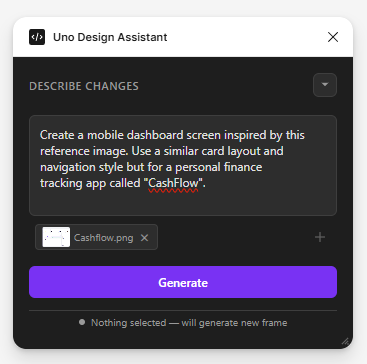
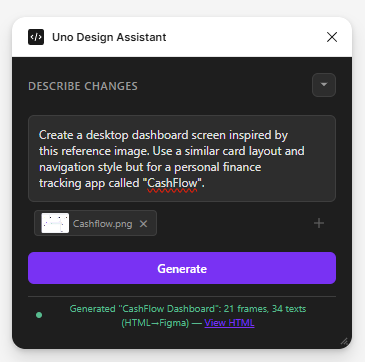
Round 3: Improve reference image visual fidelity, proportions, and density
- Fix DESKTOP LAYOUT: sidebar now 200-250px for dashboard pages (was 720px)
- Add VISUAL COMPONENT PATTERNS section with concrete recipes for stat cards, charts, transaction lists, progress bars, sidebar nav, buttons
- Enhance REFERENCE IMAGE HANDLING with proportion matching, visual richness, and density floor (80-150+ nodes)
- Update callLLMGenerate STEP 3 with detailed visual replication guidance
- Update callLLMGenerateHTML with 3 new analysis points (proportions, richness, density)
- Update callLLMPlan with sidebar width constraints and visual richness notes
- Comparison site: fix sticky column hover highlight, update test prompt to desktop

diff --git a/backend/llm.ts b/backend/llm.ts
@@ -555,6 +555,7 @@ export async function callLLMGenerate(
 A reference image is attached. This is your PRIMARY visual inspiration. You MUST deeply analyze it before generating.
 
 STEP 1 — ANALYZE the reference image and identify:
+- VIEWPORT TYPE: Is this a desktop/wide layout (sidebar + main content, multi-column grids) or a mobile/narrow layout (single column, stacked cards)?
 - Overall layout structure (sidebar + main content? single column? multi-panel?)
 - Specific sections visible (navigation, stat cards, charts, tables, lists, etc.)
 - Component arrangement and spatial relationships
@@ -563,19 +564,27 @@ STEP 1 — ANALYZE the reference image and identify:
 - Card styles, border treatments, shadow usage
 - Color scheme approach (dark sidebar? light content area? accent usage?)
 
-STEP 2 — REPLICATE the reference's structure:
-- Match the NUMBER and TYPE of sections (if the reference has 4 stat cards, create 4 stat cards)
-- Match the LAYOUT PATTERN (if the reference uses a sidebar + main content, use that pattern)
-- Match the COMPONENT TYPES (if the reference shows a line chart, create a chart area; if it shows a transaction list, create a transaction list)
-- Match the VISUAL HIERARCHY and spacing rhythm
-- Match the overall density and feel
+STEP 2 — MATCH THE VIEWPORT:
+- If the reference shows a DESKTOP layout (sidebar navigation, multi-column stat cards, wide charts), generate a DESKTOP frame (width: 1440).
+- If the reference shows a MOBILE layout (single column, stacked cards, bottom tabs), generate a MOBILE frame (width: 390).
+- The reference image's viewport type OVERRIDES any mention of "mobile" or "desktop" in the user's prompt. The reference image is the truth.
+- IMPORTANT: Words like "app", "screen", or "mobile" in the prompt do NOT mean you should force a mobile layout if the reference image clearly shows a desktop/wide design.
 
-STEP 3 — ADAPT to the user's request:
+STEP 3 — REPLICATE the reference's structure with FULL VISUAL DETAIL:
+- Match the NUMBER and TYPE of sections (if the reference has 4 stat cards in a row, create 4 stat cards in a row)
+- Match the LAYOUT PATTERN (if the reference uses a sidebar + main content, use that pattern — do NOT stack them vertically)
+- Match the COMPONENT TYPES (if the reference shows a line chart, create a chart area; if it shows a transaction list, create a transaction list)
+- Match PROPORTIONS: a narrow sidebar (~15% of width = ~200-250px FIXED), stat cards equally sharing the remaining width (layoutSizingHorizontal:"FILL"), etc.
+- Match VISUAL RICHNESS: create icon placeholders (colored RECTANGLE nodes with cornerRadius), card surfaces (white/surface FRAME with cornerRadius + DROP_SHADOW), progress bars (layered RECTANGLEs for track + fill), colored amount indicators (green for positive, red for negative)
+- Match DENSITY: a rich dashboard reference needs 80-150+ nodes. Every distinct visual element (icon, label, value, indicator, separator, bar segment) should be its own node.
+- Charts cannot be drawn as actual lines — represent chart areas as a RECTANGLE with a very light fill inside a card FRAME.
+
+STEP 4 — ADAPT to the user's request:
 - Apply the user's requested theme, branding, and content (e.g., "personal finance app called CashFlow")
 - Use the design system colors and typography tokens if provided, but match the COLOR ROLES from the reference (e.g., if reference has a dark sidebar with light text, use your dark surface color + light text color)
 - If no design system is provided, replicate the reference's visual style closely
 
-CRITICAL: The reference image defines the STRUCTURE and LAYOUT. The user's prompt defines the CONTENT and BRANDING. Do NOT ignore the reference's layout in favor of a generic template.`;
+CRITICAL: The reference image defines the STRUCTURE, LAYOUT, and VIEWPORT SIZE. The user's prompt defines the CONTENT and BRANDING. Do NOT ignore the reference's layout in favor of a generic template. Do NOT convert a desktop reference into a mobile layout unless the user EXPLICITLY asks for a mobile adaptation.`;
   }
 
   console.log(`[callLLMGenerate] isComponent=${!!isComponentGeneration}, System prompt: ${systemPrompt.length} chars, User prompt: ${finalUserPrompt.length} chars, TOTAL: ${systemPrompt.length + finalUserPrompt.length} chars (~${Math.round((systemPrompt.length + finalUserPrompt.length)/4)} tokens)${referenceImageBase64 ? `, refImage: ${referenceImageBase64.length} chars` : ""}`);
@@ -632,14 +641,18 @@ export async function callLLMGenerateHTML(
 A reference image is attached. This is your PRIMARY visual inspiration for the HTML output.
 
 ANALYZE the reference and REPLICATE:
-1. **Layout structure**: sidebar vs. top-nav, panel arrangements, grid patterns
-2. **Section types**: identify every distinct section (stat cards, charts, tables, lists, navigation, etc.) and recreate them
-3. **Component count**: if the reference shows 4 metric cards, create 4. If it shows 5 transaction rows, create 5.
-4. **Visual hierarchy**: match prominence, sizing, and spacing relationships
-5. **Spacing and density**: match the overall feel — compact vs. spacious
-6. **Color approach**: match the color ROLES (dark sidebar, light content area, colored accents) using the design system palette
+1. **Viewport type**: Is this desktop (wide, sidebar, multi-column) or mobile (narrow, stacked)? MATCH the reference's viewport — if it's desktop, generate a wide desktop layout. If the reference is desktop but the prompt says "mobile", still generate desktop because the reference image is the truth.
+2. **Layout structure**: sidebar vs. top-nav, panel arrangements, grid patterns — replicate exactly
+3. **Section types**: identify every distinct section (stat cards, charts, tables, lists, navigation, etc.) and recreate them
+4. **Component count**: if the reference shows 4 metric cards in a row, create 4 in a row. If it shows 5 transaction rows, create 5.
+5. **Visual hierarchy**: match prominence, sizing, and spacing relationships
+6. **Spacing and density**: match the overall feel — compact vs. spacious
+7. **Color approach**: match the color ROLES (dark sidebar, light content area, colored accents) using the design system palette
+8. **Proportions**: match relative sizing — if the sidebar is narrow (~15% of width), keep it narrow. If stat cards share the row equally, make them equal-width. Do NOT make a sidebar take 50% of the screen when the reference shows it at ~15%.
+9. **Visual richness**: if the reference shows card surfaces with shadows, icons with colored backgrounds, progress bars, chart placeholders — recreate ALL of them. Do NOT simplify the reference into plain text. Use CSS to create rounded colored icon containers, progress bar tracks with fills, card shadows, colored amount indicators.
+10. **Density**: a rich dashboard reference should produce dense HTML with many elements. Every distinct visual element in the reference (icon, label, value, indicator, bar, separator) should be represented.
 
-The reference defines the STRUCTURE and LAYOUT. The user's prompt defines the CONTENT and BRANDING. Generate HTML that closely mirrors the reference's layout while adapting content to the user's request.`;
+The reference defines the STRUCTURE, LAYOUT, and VIEWPORT SIZE. The user's prompt defines the CONTENT and BRANDING. Generate HTML that closely mirrors the reference's layout while adapting content to the user's request. Do NOT convert a desktop reference into a mobile layout.`;
   }
 
   console.log(`[callLLMGenerateHTML] System prompt: ${GENERATE_HTML_SYSTEM_PROMPT.length} chars, User prompt: ${finalUserPrompt.length} chars, TOTAL: ${GENERATE_HTML_SYSTEM_PROMPT.length + finalUserPrompt.length} chars (~${Math.round((GENERATE_HTML_SYSTEM_PROMPT.length + finalUserPrompt.length)/4)} tokens)${referenceImageBase64 ? `, refImage: ${referenceImageBase64.length} chars` : ""}`);
@@ -1146,13 +1159,16 @@ export async function callLLMPlan(
 A reference image is attached. Your layout plan MUST be based on this image.
 
 ANALYZE the reference image and create blocks that match its ACTUAL structure:
-- If the reference has a sidebar navigation, include a sidebar block
-- If the reference has stat/metric cards in a row, include a stats-row block
+- FIRST: determine if the reference is DESKTOP (wide, sidebar, multi-column) or MOBILE (narrow, stacked). Set the plan viewport accordingly — do NOT force mobile if the reference is desktop, even if the prompt mentions "mobile" or "app".
+- If the reference has a sidebar navigation, include a sidebar block (~200-250px FIXED width, NOT 50% of the screen)
+- If the reference has stat/metric cards in a row, include a stats-row block (HORIZONTAL, not stacked vertically)
 - If the reference has a chart section, include a chart block
 - If the reference has a data table or transaction list, include that block
 - Match the NUMBER of sections and their ARRANGEMENT from the reference
+- Match PROPORTIONS: if the sidebar is narrow (~15%), specify ~200-250px. If content sections share a row, specify equal widths.
+- For EACH block, note the visual richness needed: icons, card surfaces, progress bars, colored indicators, shadows
 
-Do NOT fall back to a generic "hero → features → CTA" template. The plan must reflect what is ACTUALLY VISIBLE in the reference image.`;
+Do NOT fall back to a generic "hero → features → CTA" template. The plan must reflect what is ACTUALLY VISIBLE in the reference image. The reference image's viewport type OVERRIDES any mention of "mobile" or "desktop" in the user's prompt.`;
   }
 
   console.log(`[callLLMPlan] System: ${PLAN_SYSTEM_PROMPT.length} chars, User: ${userPrompt.length} chars${referenceImageBase64 ? `, refImage: ${referenceImageBase64.length} chars` : ""}`);

diff --git a/backend/promptBuilder.ts b/backend/promptBuilder.ts
@@ -459,21 +459,36 @@ Use an 8px base grid. Common values: 4, 8, 12, 16, 24, 32, 48.
 
 ═══ DESKTOP LAYOUT ═══
 When creating or converting to desktop (1440px):
-- HORIZONTAL split: left brand panel (720px FIXED, accent bg, centered brand text) + right content panel (720px FIXED, padding 80/60/100/100, inner form wrapper 440px VERTICAL).
+- LOGIN/AUTH pages: HORIZONTAL split with left brand panel (720px FIXED, accent bg) + right content panel (720px FIXED, form wrapper).
+- DASHBOARD/APP pages with sidebar navigation: HORIZONTAL root with narrow sidebar (200-250px FIXED, dark bg) + main content area (layoutSizingHorizontal:"FILL"). The sidebar should be ~14-17% of total width, NOT 50%.
 - Or centered single-column: counterAxisAlignItems:"CENTER", content wrapper 440-800px.
 - All inputs/buttons in wrapper: layoutSizingHorizontal:"FILL".
+
+═══ VISUAL COMPONENT PATTERNS ═══
+When the reference image shows specific UI elements, represent them as follows:
+- STAT/METRIC CARDS: FRAME with white/surface fill, cornerRadius:12, padding:20-24, DROP_SHADOW. Children: icon placeholder (RECTANGLE 40x40 with colored fill + cornerRadius:8-20), label TEXT (12-14px caption), value TEXT (24-32px bold), change indicator FRAME (HORIZONTAL, green/red TEXT).
+- CHARTS/GRAPHS: FRAME with surface fill, cornerRadius:12, padding:20-24. Children: title TEXT, tab/filter row FRAME, chart area RECTANGLE (fill with very light color, height:200-300). Add axis labels as small TEXT nodes. You cannot draw actual chart lines, so represent the chart area as a colored RECTANGLE placeholder.
+- TRANSACTION/DATA LISTS: FRAME with surface fill, cornerRadius:12, padding:16-20. Each row is a HORIZONTAL FRAME with: icon RECTANGLE (36-40px, colored fill, cornerRadius:8-20), text column FRAME (VERTICAL: name TEXT bold + category TEXT caption), amount TEXT (right-aligned, colored green/red), date TEXT (caption).
+- PROGRESS BARS: FRAME (HORIZONTAL, height:8-12, cornerRadius:4-6, light gray fill) containing a RECTANGLE child (percentage width FIXED, full height, colored fill, cornerRadius:4-6). Add label TEXT + value TEXT above/beside.
+- NAVIGATION SIDEBAR: FRAME (VERTICAL, FIXED width 200-250, dark fill, padding:24). Children: logo/brand TEXT, nav items as HORIZONTAL FRAMEs with icon RECTANGLE + label TEXT. Active item gets a subtle highlight fill.
+- BUTTONS: FRAME with padding, cornerRadius:8, colored fill. Primary buttons use brand/accent color, secondary use surface/outline.
 
 ═══ REFERENCE SNAPSHOTS ═══
 When provided, reference snapshots are HIGHEST PRIORITY. Replicate their fillColor, strokeColor, cornerRadius, padding, spacing, fonts exactly.
 
 ═══ REFERENCE IMAGE HANDLING ═══
 When a reference image is attached:
-- The reference image defines the TARGET layout structure. Analyze it carefully.
+- The reference image defines the TARGET layout structure AND viewport. Analyze it carefully.
+- VIEWPORT OVERRIDE: If the reference shows a desktop layout (sidebar, multi-column, wide panels), use width:1440 REGARDLESS of whether the prompt says "mobile" or "app". If the reference shows mobile (single column, stacked), use width:390. The reference image determines the viewport, not keywords in the prompt.
 - MATCH the section types, component arrangement, and visual hierarchy from the reference.
-- COUNT the elements: if the reference shows 4 stat cards, create 4. If it shows a sidebar, create a sidebar.
+- COUNT the elements: if the reference shows 4 stat cards in a row, create 4 in a row. If it shows a sidebar, create a sidebar.
+- MATCH PROPORTIONS: if the sidebar is narrow (~15% of width), make it ~200-250px FIXED. If stat cards are equal-width in a row, use layoutSizingHorizontal:"FILL" on each. Match the relative sizes of sections.
+- MATCH VISUAL RICHNESS: if the reference has colored icons, card shadows, colored indicators, progress bars — create them using the Visual Component Patterns above. Do NOT simplify the reference into plain text. Every visual element in the reference should have a corresponding node.
+- MATCH DENSITY: if the reference is information-dense with many elements, generate a HIGH node count (80-150+ nodes). Do NOT create a sparse layout with 30 nodes when the reference clearly has dozens of distinct UI elements.
 - DO NOT fall back to generic templates (hero → features → CTA). Follow the reference's actual structure.
+- DO NOT convert a desktop reference into a mobile layout by stacking everything vertically.
 - Use the design system colors/typography but match the color ROLES from the reference (e.g., dark sidebar → use your darkest surface color).
-- The reference image takes PRIORITY over the default "Design Recipe" blocks above.
+- The reference image takes PRIORITY over the default "Design Recipe" blocks above AND any viewport hints in the user prompt.
 
 Generate the JSON now.`;
 

diff --git a/comparison-site/src/components/CapabilityMatrix.tsx b/comparison-site/src/components/CapabilityMatrix.tsx
@@ -171,9 +171,13 @@ export default function CapabilityMatrix() {
                     style={{ cursor: "default" }}
                     onMouseEnter={(e) => {
                       e.currentTarget.style.background = "rgba(21, 155, 255, 0.06)";
+                      const stickyTd = e.currentTarget.querySelector('td:first-child') as HTMLElement;
+                      if (stickyTd) stickyTd.style.background = "rgba(21, 155, 255, 0.06)";
                     }}
                     onMouseLeave={(e) => {
                       e.currentTarget.style.background = "";
+                      const stickyTd = e.currentTarget.querySelector('td:first-child') as HTMLElement;
+                      if (stickyTd) stickyTd.style.background = "var(--surface)";
                     }}
                   >
                     <td

diff --git a/comparison-site/src/data/matrixData.ts b/comparison-site/src/data/matrixData.ts
@@ -146,7 +146,7 @@ export const CAPABILITIES: Capability[] = [
     name: "Screenshot to Figma",
     description:
       "Convert a screenshot or mockup image into editable Figma layers.",
-    testPrompt: "Create a mobile dashboard screen inspired by this reference image. Use a similar card layout and navigation style but for a personal finance tracking app called \"CashFlow\".",
+    testPrompt: "Create a desktop dashboard screen inspired by this reference image. Use a similar card layout and navigation style but for a personal finance tracking app called \"CashFlow\".",
     support: {
       "uno-design-assistant": "full",
       "figma-ai": "none",

diff --git a/docs/plugin-capabilities-demo.md b/docs/plugin-capabilities-demo.md
@@ -22,7 +22,7 @@ a "Forgot Password?" link, and a "Sign up" option at the bottom.
 
 *(attach a screenshot of any app you like):*
 ```
-Create a mobile dashboard screen inspired by this reference image.
+Create a desktop dashboard screen inspired by this reference image.
 Use a similar card layout and navigation style but for a personal
 finance tracking app called "CashFlow".
 ```
